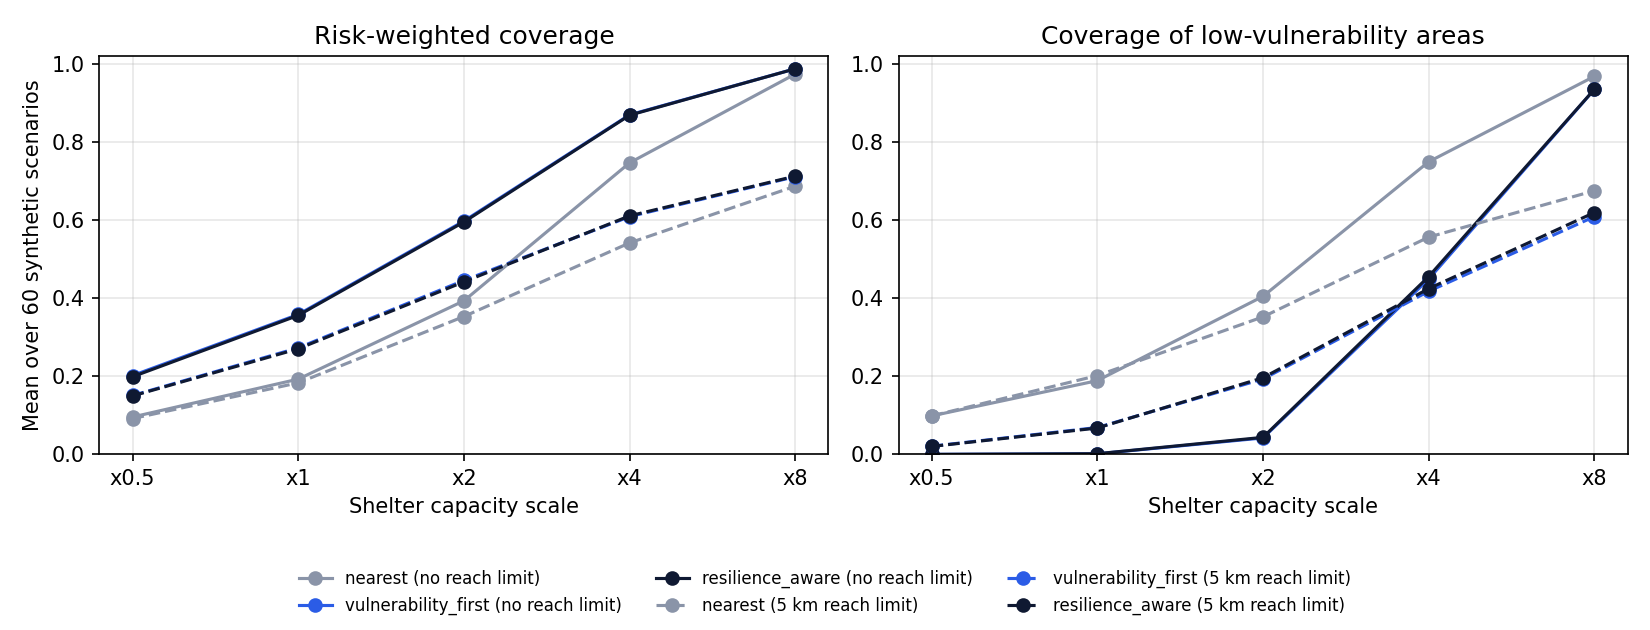
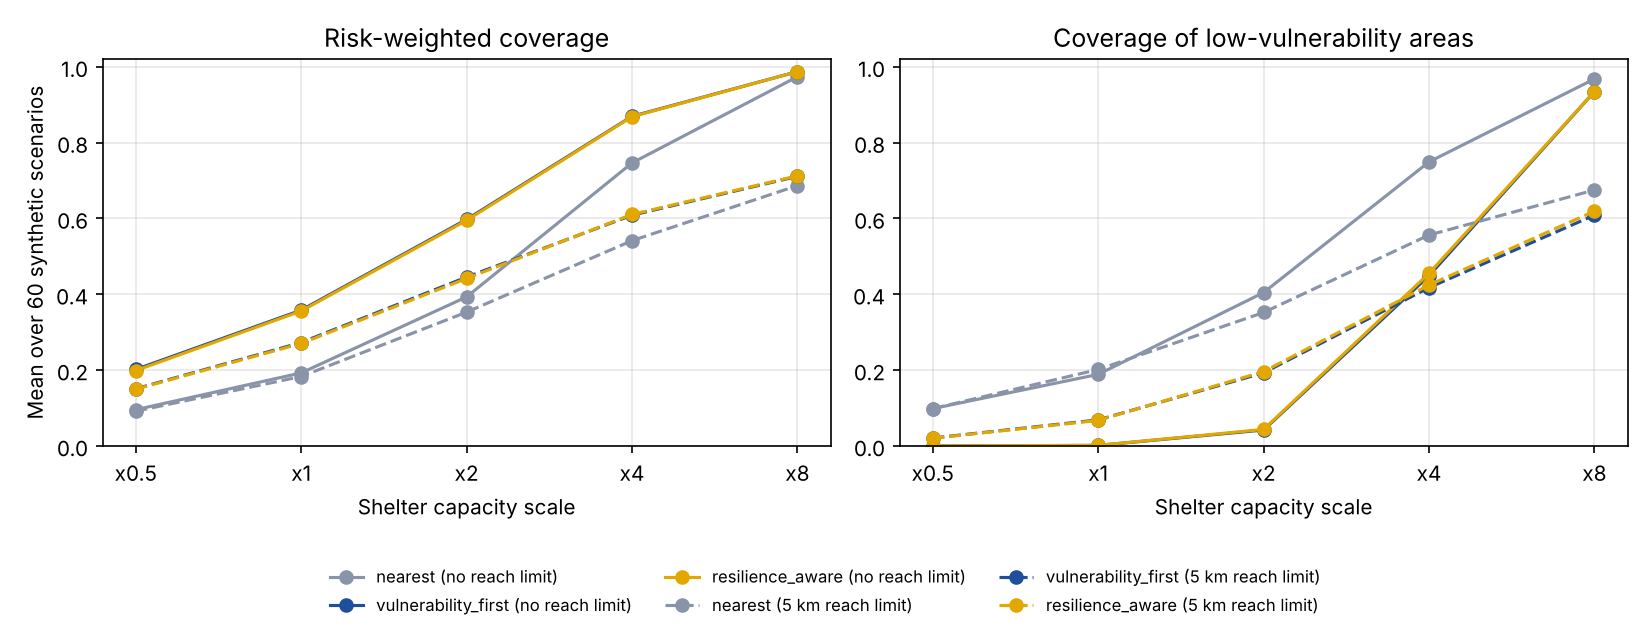
Use the house chart colours

diff --git a/heatbridge_pk/analysis.py b/heatbridge_pk/analysis.py
@@ -143,7 +143,7 @@ def plot(summary: Dict[str, object], path: Path) -> bool:
     except ImportError:
         print("matplotlib not installed; skipping the figure (pip install -r requirements.txt)")
         return False
-    colours = {"nearest": "#8a94a8", "vulnerability_first": "#2b5ce6", "resilience_aware": "#0f1932"}
+    colours = {"nearest": "#8a94a8", "vulnerability_first": "#1F4E9C", "resilience_aware": "#E3A800"}
     styles = {"none": "-", "5km": "--"}
     fig, axes = plt.subplots(1, 2, figsize=(11, 4.2))
     for ax, metric, title in zip(axes, ("risk_weighted_coverage", "low_vulnerability_coverage"),
